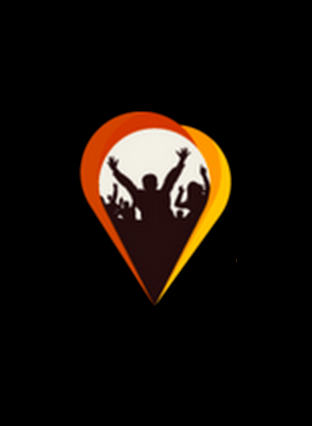
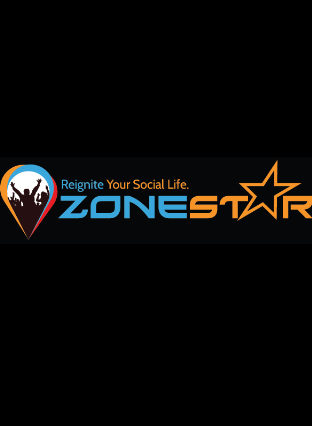
asd

Changed region(s): [[0.0, 0.2441, 1.0, 0.7324]]

diff --git a/public/index.html b/public/index.html
@@ -4,11 +4,12 @@
 <!--[if IE 8 ]><html class="ie ie8" lang="en" class="no-js"> <![endif]-->
 <!--[if (gte IE 9)|!(IE)]><!--><html lang="en" class="no-js"> <!--<![endif]-->
 <head>
-	<title>ZoneStar | Revolutionary New Social Platform for the iPhone</title>
+	<title>ZoneStar | The Hottest New Location Based iPhone App</title>
 	<meta charset="utf-8">
 	<meta name="viewport" content="width=device-width, initial-scale=1.0">
-	<meta name="description" content="ZoneStar is an anonymous, fun and easy way to share content about clubs, parties, social events or lineups with people nearby.">
+	<meta name="description" content="Capture and share your hottest party and nightlife experiences through ZoneStar. Discuss and discover the scene at nearby bars and nightclubs in real-time.">
 	<meta name="author" content="Armand Obreja">
+    <meta name="keywords" content="iPhone, App, Social, Location, Share, Hottest, New, Anonymous, ZoneStar, Real-Time, Party, Nightclubs, Bars">
 
 	<!-- Styles -->
 	<link href="assets/css/bootstrap.css" rel="stylesheet">
@@ -29,6 +30,7 @@
     <link rel="apple-touch-icon-precomposed" sizes="72x72" href="assets/ico/apple-touch-icon-72-precomposed.png">
     <link rel="apple-touch-icon-precomposed" href="assets/ico/apple-touch-icon-57-precomposed.png">
     <link rel="shortcut icon" href="assets/ico/favicon.png">
+
 
 </head>
 
@@ -68,14 +70,14 @@
 						</a>					
 						<a class="brand" data-section="body" href="index.html">
 							<img src="assets/img/ZoneStarName.png" alt="Big Thing Logo" />
-							<h1 class="hide">ZoneStar | Revolutionary New Social Platform for the iPhone</h1>
+							<h1 class="hide">ZoneStar | The Hottest New Location Based iPhone App</h1>
 						</a>
 						<nav id="main-menu" class="nav-collapse collapse">
 							<h2 class="hide">Main Navigation</h2>
 							<ul class="nav pull-right">
 								<li><a href="#features-section">FEATURES</a></li>
-								<li><a href="#testimonials-section">INSPIRATION</a></li>
-								<li><a href="#call-to-action">FOLLOW</a></li>
+								<li><a href="#testimonials-section">SCREENS</a></li>
+								<li><a href="#call-to-action">CONTACT</a></li>
 							</ul>
 						</nav>
 					</div>
@@ -89,10 +91,10 @@
 				<div class="row-fluid">
 				<div class="span6 hero-text">
 					<h2 class="heading">REIGNITE YOUR SOCIAL LIFE</h2>
-					<p class="description">ZoneStar is introducing a new-age approach to sharing, discovering and discussing the hottest parties, social events and nightlife spots in real-time.</p>
+					<p class="description">Capture and share your hottest party and nightlife experiences through ZoneStar. Get a live feed of the bar and nightclub scene near you.</p>
 					<a href="https://itunes.apple.com/us/app/zonestar/id910409578?ls=1&mt=8" class="btn btn-primary"><img src="assets/img/btn-app-store.png" alt="Get App"/></a>
 				</div>
-				<div class="span6 hero-image">					
+				<div class="span6 hero-image">				
 					<div id="hero-carousel" class="carousel slide">
 						<div class="carousel-inner">
 							<div class="item active">
@@ -119,15 +121,15 @@
 						<img src="assets/img/HowTo.png" alt="Feature" />
 					</div>
 					<div class="span6 right-text">
-						<h2 class="heading">CONNECT LIKE NEVER BEFORE</h2>
-						<p class="description">Our platform makes it fun and easy to share content in real-time to people near you. You no longer need to have the right connections to find out what's happening in your area.</p>
+						<h2 class="heading">SIMPLE. FUN. ENGAGING.</h2>
+						<p class="description">Use ZoneStar to pin your favorite memories of the night while discovering what other people are doing around you.</p>
 					</div>					
 				</div>
 				<hr/>
 				<div class="row-fluid feature-item">
 					<div class="span6">
-						<h2 class="heading">WE'RE CHANGING THE GAME</h2>
-						<p class="description">ZoneStar is challenging the "it's all about who you know" mindset reinforced by the majority of social networks 						today. It's time to pop the bubbles that people place themselves in and connect one another at social events in ways never attempted before.</p>
+						<h2 class="heading">TURN IT UP</h2>
+						<p class="description">Don't just tell your friends. Promote the hottest parties and nightlife scenes to anyone in the area and bring the party to you.</p>
 					</div>
 					<div class="span6">
 						<img src="assets/img/friendBubbles.png" class="no-shadow" alt="Feature" />
@@ -139,8 +141,8 @@
 						<img src="assets/img/revolt.png" class="no-shadow" alt="Feature" />
 					</div>
 					<div class="span6 right-text">
-						<h2 class="heading">IT'S NOT ABOUT WHO YOU KNOW</h2>
-						<p class="description">We want to help break down social barriers and revolutionize the way humans interact with one another. With ZoneStar, it's no longer about who you know; it's about where you are.</p>
+						<h2 class="heading">STEP IT UP</h2>
+						<p class="description">Pop your bubbles, step out of your comfort zone and get in the loop with what's happening tonight in your area.  ZoneStar will reignite and enhance your social life!</p>
 					</div>
 				</div>				
 			</section>
@@ -179,66 +181,41 @@
 					</div>
 				</div>				
 			</section>
-			-->			
+			-->		
 			
+			<!--
 			<div class="full-width">
-				<section id="testimonials-section" class="container testimonials flexslider">
-					<h2 class="hide">Inspiration</h2>
-					<ul class="slides">
-						<li>
-							<i class="icon-quote-left icon-4x pull-left"></i>
-							<p class="testimonial-content">Differences are not intended to separate, to alienate. We are different precisely in order to realize our need of one another.
-							<span class="author">- Desmond Tutu</span>
-							</p>
-						</li>
-						<li>
-							<i class="icon-quote-left icon-4x pull-left"></i>
-							<p class="testimonial-content">Honest differences are often a healthy sign of progress.
-							<span class="author">- Mahatma Gandhi</span>
-							</p>
-						</li>
-						<li>
-							<i class="icon-quote-left icon-4x pull-left"></i>
-							<p class="testimonial-content">You may say that I'm a dreamer,
-								but I'm not the only one,
-								I hope someday you'll join us,
-								and the world will be as one.
-							<span class="author">- John Lennon.</span>
-							</p>
-						</li>
-						<li>
-							<i class="icon-quote-left icon-4x pull-left"></i>
-							<p class="testimonial-content">We cannot solve our problems with the same thinking we used used when we created them.
-							<span class="author">- Albert Einstein</span>
-							</p>
-						</li>
-						<li>
-							<i class="icon-quote-left icon-4x pull-left"></i>
-							<p class="testimonial-content">Everything around you that you call life was made up by people that were no smarter than you and you can 							change it.""
-							<span class="author">- Steve Jobs</span>
-							</p>
-						</li>
-						<li>
-							<i class="icon-quote-left icon-4x pull-left"></i>
-							<p class="testimonial-content">Our goal should be to understand our differences.
-							<span class="author">- James D. Watson</span>
-							</p>
-						</li>
-					</ul>
-				</section>
-			</div>
+							<section id="testimonials-section" class="container testimonials flexslider">
+								<h2 class="hide">Inspiration</h2>
+								<ul class="slides">
+									<li>
+										<div class="span4">
+											<img src="assets/img/slide-item1.png" alt="ZoneStar App">
+										</div>
+									</li>
+									<li>
+										<div class="span4">
+											<img src="assets/img/slide-item2.png" alt="ZoneStar App">
+										</div>
+									</li>
+								</ul>
+							</section>
+						</div>	
+			-->
+
 
 			<section id="call-to-action" class="container section call-to-action">
 				<div class="row-fluid inner">
 					<div class="span7">
-						<h2 class="heading">LIKE AND FOLLOW</h2>
-						<p class="description">Show your support. Spread the word and help us reinvent the social networking game.</p>
+						<h2 class="heading">CONTACT</h2>
+						<p class="description">Contact us if you would like to use ZoneStar to promote your events or establishments.</p>
 						<a href="https://itunes.apple.com/us/app/zonestar/id910409578?ls=1&mt=8" class="btn btn-primary"><img src="assets/img/btn-app-store.png" 						alt="Get App" /></a>
 					</div>
 			<div class="fb-like-box" data-href="https://www.facebook.com/zonestarapp" data-colorscheme="light" data-show-faces="true" data-header="true" data-stream="true" data-show-border="true"></div> 
 				</div>
 			</section>
 		</div>
+
 		<!-- ends main content -->
 
 		<!-- begins footer 
@@ -271,7 +248,7 @@
 						<ul>
 							<li><a href="http://instagram.com/zonestar_app?ref=badge"><i class="socicon youtubecircle"></i></a></li>
 							<li><a href="https://www.facebook.com/zonestarapp"><i class="socicon bebocircle"></i></a></li>
-							<li><a href="https://twitter.com/zonestar_app"><i class="socicon amazoncircle"></i></a></li>					
+							<!--<li><a href="https://twitter.com/zonestar_app"><i class="socicon amazoncircle"></i></a></li>-->					
 						</ul>
 					</div>
 				</div>
@@ -279,14 +256,20 @@
 		</footer>
 		<!-- ends footer -->
 	</div>
+	
+
 
 	<!-- Javascript
     ================================================== -->
+		
 	<script src="assets/js/jquery-1.7.2.min.js"></script>
 	<script src="assets/js/bootstrap.min.js"></script>
 	<script src="assets/js/jquery.flexslider.js"></script>
 	<script src="assets/js/jquery.scrollTo-1.4.3.1-min.js"></script>
 	<script src="assets/js/jquery.localscroll-1.2.7-min.js"></script>		
 	<script src="assets/js/big-thing.js"></script>
+
+	
+	
 </body>
 </html>

diff --git a/public/assets/css/style.css b/public/assets/css/style.css
@@ -886,3 +886,5 @@ html[xmlns] .slides {display: block;}
 	}
 }
 
+
+
